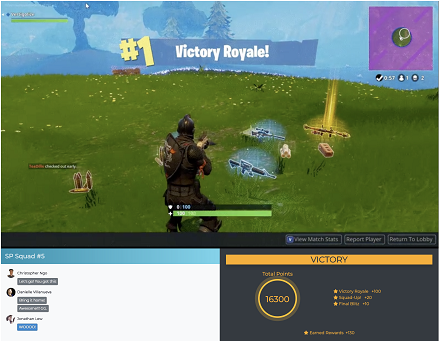
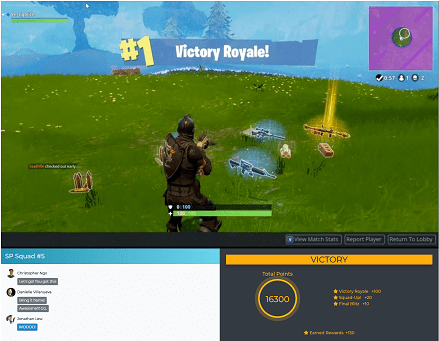
Compressed asset files for faster loading time

diff --git a/src/components/pages/main-page/Resume.js b/src/components/pages/main-page/Resume.js
@@ -2,7 +2,7 @@ import React from 'react';
 import Section from '../../common/Section';
 import Tile from '../../common/Tile';
 import floqastImage from '../../../assets/images/floqast.jpg';
-import sonyImage from '../../../assets/images/sony.png';
+import sonyImage from '../../../assets/images/sony.jpg';
 import investcloudImage from '../../../assets/images/investcloud.jpg';
 import hashtagIcon from '../../../assets/images/hashtag.png';
 import movieIcon from '../../../assets/images/movie.png';
